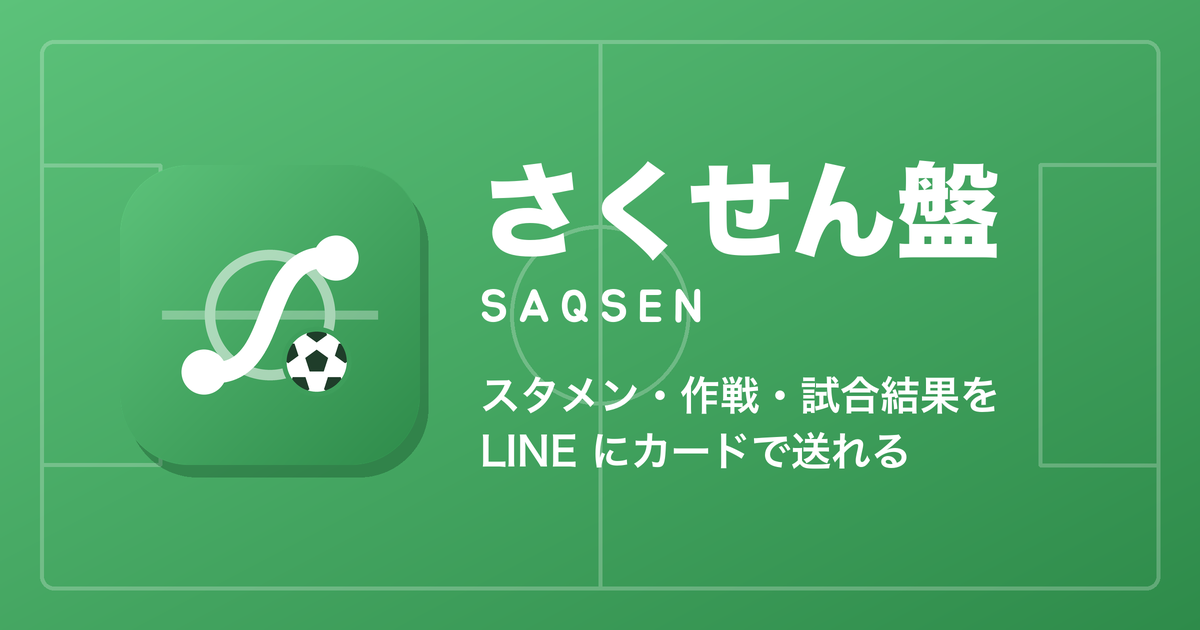
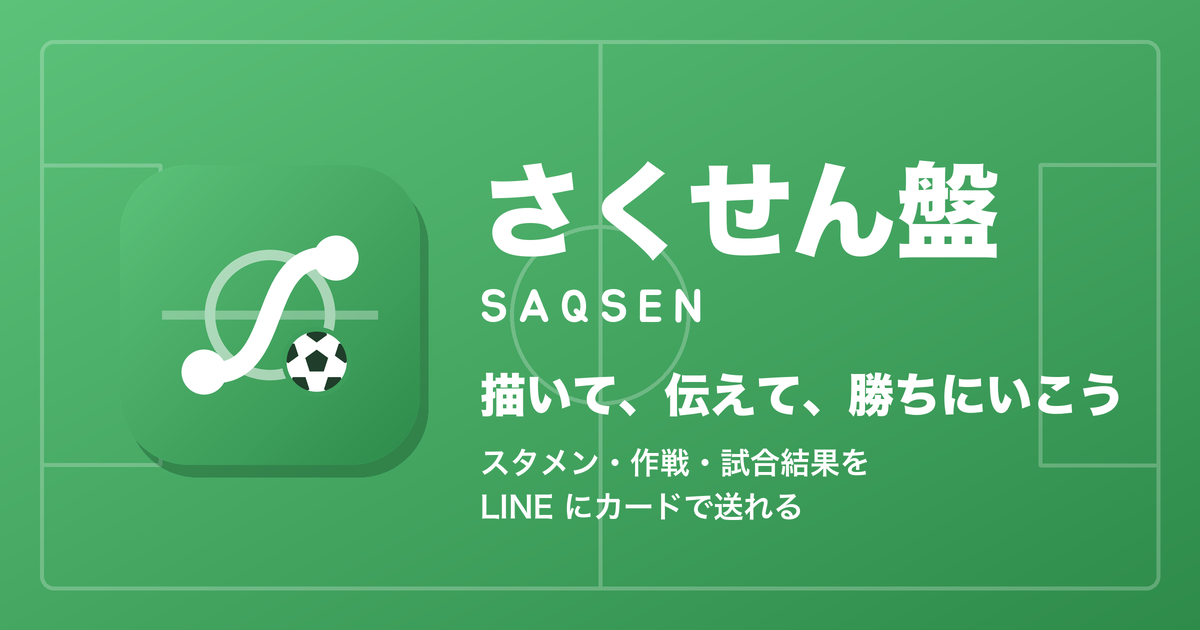
[add] キャッチコピー「描いて、伝えて、勝ちにいこう」を見出しの下と OGP に入れる

Changed region(s): [[0.4008, 0.573, 0.9558, 0.6635], [0.4008, 0.6937, 0.7708, 0.754], [0.4008, 0.7841, 0.6783, 0.8444]]

diff --git a/index.html b/index.html
@@ -22,7 +22,7 @@
 <meta name="twitter:card" content="summary_large_image">
 <link rel="preconnect" href="https://fonts.googleapis.com">
 <link href="https://fonts.googleapis.com/css2?family=M+PLUS+Rounded+1c:wght@400;700;800&display=swap" rel="stylesheet">
-<link rel="stylesheet" href="style.css?v=30">
+<link rel="stylesheet" href="style.css?v=31">
 </head>
 <body>
 <main class="wrap">
@@ -32,6 +32,7 @@
       <h1><img class="logo" src="icon.svg" alt="" width="28" height="28">さくせん盤</h1>
       <img class="brand" src="logo.svg" alt="SAQSEN" width="97" height="28">
     </div>
+    <p class="brand-copy">描いて、伝えて、勝ちにいこう</p>
     <div class="tabs" role="tablist">
       <button id="tabLineup" class="tab" role="tab" aria-selected="true" data-tab="lineup">⚽ スタメン・作戦</button>
       <button id="tabResult" class="tab" role="tab" aria-selected="false" data-tab="result">🏆 結果</button>

diff --git a/style.css b/style.css
@@ -221,3 +221,6 @@ input[type="date"]::-webkit-date-and-time-value, input[type="time"]::-webkit-dat
 h1 { display: flex; align-items: center; gap: 8px; font-size: 20px; line-height: 1.2; text-align: left; }
 h1 .logo { width: 28px; height: 28px; }
 .brand { display: block; width: auto; height: 28px; } /* アイコン＋名前の行と同じ高さ */
+
+/* キャッチコピー（見出しの行のすぐ下。おくるんの「つくって、おくるん」と同じ役目） */
+.brand-copy { margin: 2px 2px 0; color: #2E8B4A; font-size: 13px; font-weight: 800; line-height: 1.4; letter-spacing: 0.02em; }

diff --git a/tools/ogp.py b/tools/ogp.py
@@ -64,8 +64,10 @@ def main():
     for ch in "SAQSEN":  # 字の間を少しあける
         d.text((cx, 322 * S), ch, font=jua, fill=(255, 255, 255, 230), anchor="ls")
         cx += d.textlength(ch, font=jua) + 10 * S
-    d.text((x, 410 * S), "スタメン・作戦・試合結果を", font=hira(6, 40), fill=(255, 255, 255), anchor="ls")
-    d.text((x, 466 * S), "LINE にカードで送れる", font=hira(6, 40), fill=(255, 255, 255), anchor="ls")
+    # キャッチコピー（おくるんの「つくって、おくるん」と同じ役目）と、その下に小さく説明
+    d.text((x, 412 * S), "描いて、伝えて、勝ちにいこう", font=hira(8, 46), fill=(255, 255, 255), anchor="ls")
+    d.text((x, 474 * S), "スタメン・作戦・試合結果を", font=hira(6, 30), fill=(255, 255, 255, 215), anchor="ls")
+    d.text((x, 518 * S), "LINE にカードで送れる", font=hira(6, 30), fill=(255, 255, 255, 215), anchor="ls")
 
     img.resize((W, H), Image.LANCZOS).convert("RGB").save(OUT, optimize=True)
     print(f"{OUT.name} を書き出しました")
